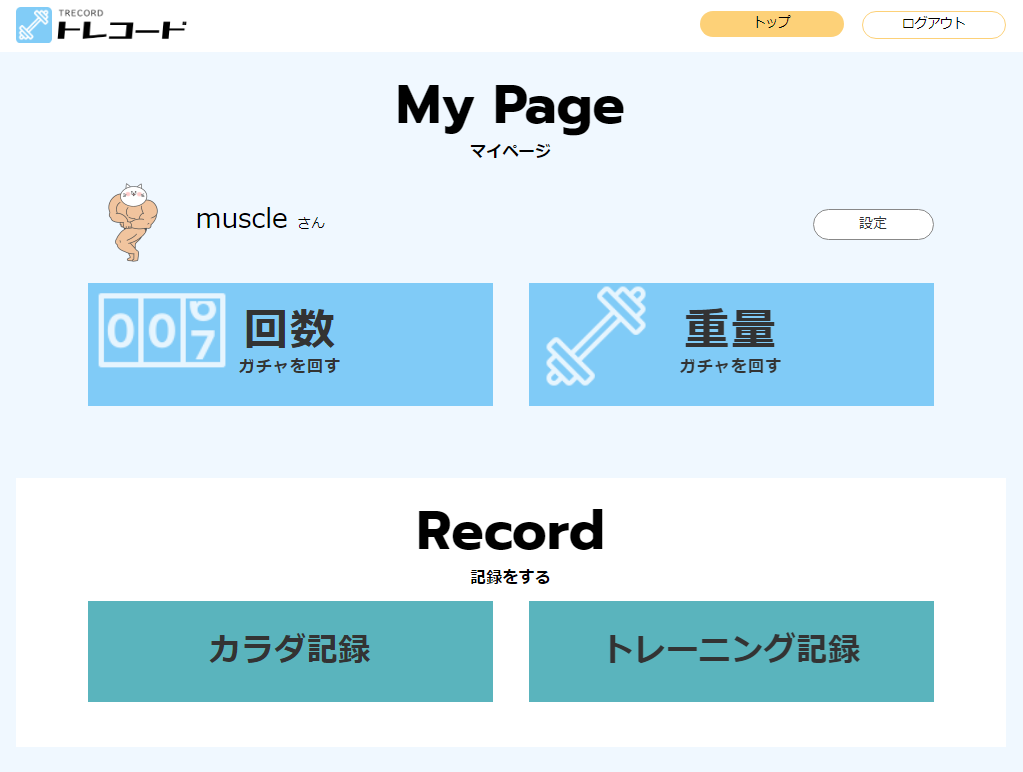
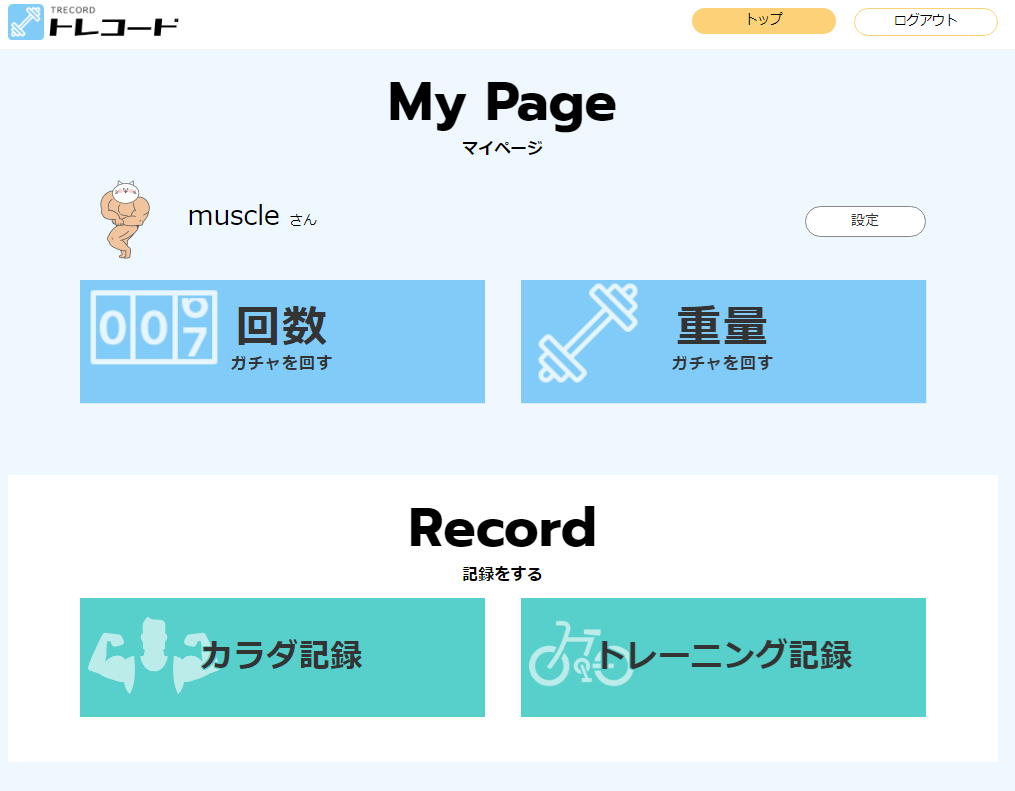
配置、画像微調整

diff --git a/index.html b/index.html
@@ -78,13 +78,14 @@
         
         <!-- 参考サイトhttps://coco-factory.jp/ugokuweb/move01/6-1-6/ -->
         <ul class="slider">
-          <li><a href="whatDoYouEatToday.html"><img src="image/trecord_mypage1.PNG" alt="トレコードTOPページ"></a></li>
-          <li><a href="whatDoYouEatToday.html"><img src="image/trecord_TOP.PNG" alt="トレコードマイページ（記録）"></a></li>
-          <li><a href="whatDoYouEatToday.html"><img src="image/trecord_mypage2.PNG" alt="トレコードマイページ（チェック）"></a></li>
+          <li><a href="whatDoYouEatToday.html"><img src="image/shindan2.PNG" alt="WhatDoYouEatToday 診断ページ"></a></li>
+          <li><a href="whatDoYouEatToday.html"><img src="image/shindan1.PNG" alt="WhatDoYouEatToday TOPページ"></a></li>
+          <li><a href="whatDoYouEatToday.html"><img src="image/shindan3.PNG" alt="WhatDoYouEatToday 詳細ページ"></a></li>
           
-          <li><a href="trecord.html"><img src="image/shindan2.PNG" alt="WhatDoYouEatToday 診断ページ"></a></li>
-          <li><a href="trecord.html"><img src="image/shindan1.PNG" alt="WhatDoYouEatToday TOPページ"></a></li>
-          <li><a href="trecord.html"><img src="image/shindan3.PNG" alt="WhatDoYouEatToday 詳細ページ"></a></li>
+          <li><a href="trecord.html"><img src="image/trecord_mypage1.PNG" alt="トレコードTOPページ"></a></li>
+          <li><a href="trecord.html"><img src="image/trecord_TOP.PNG" alt="トレコードマイページ（記録）"></a></li>
+          <li><a href="trecord.html"><img src="image/trecord_mypage2.PNG" alt="トレコードマイページ（チェック）"></a></li>
+          
           <!--/slider--></ul>
           
         <p><small>画像をクリックすると紹介ページに遷移します</small></p>

diff --git a/css/common.css b/css/common.css
@@ -34,12 +34,6 @@ header h1 a {
   font-size: 24px;
 }
 
-h1 a {
-  /* margin-top: 300px; */
-  /* padding: 14px 16px; */
-  /* text-align: center; */
-}
-
 header a {
   text-decoration: none;
   color: #666;
